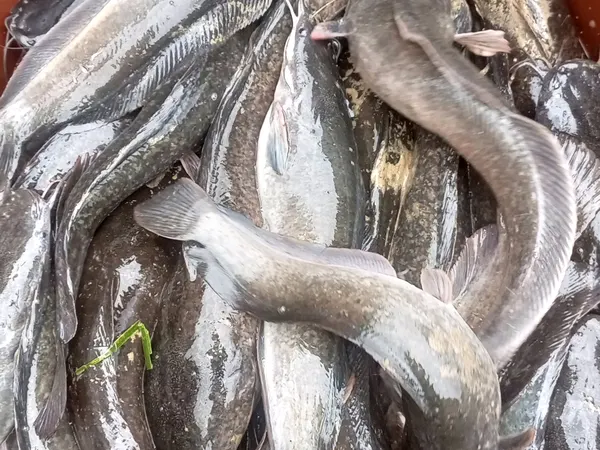
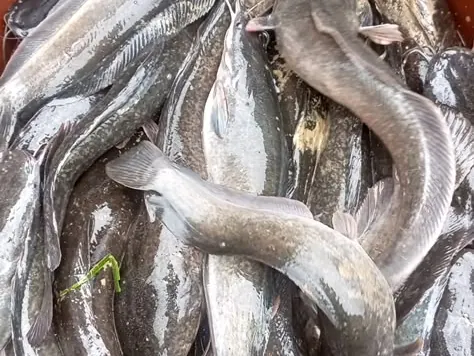
Vraies photos de la ferme (WebP optimisés) et allègement des pages

diff --git a/index.html b/index.html
@@ -371,55 +371,55 @@
                 <div id="top" class="design-hero-area p-relative fix white-bg">
                     <div class="content z-index-2 d-none d-md-block">
                         <div class="content__img">
-                            <div class="content__img-inner" style="background-image:url(assetsahello/accueil/1.png)"></div>
+                            <div class="content__img-inner" style="background-image:url(assetsahello/photos/trail-01.webp)"></div>
                         </div>
                         <div class="content__img">
-                            <div class="content__img-inner" style="background-image:url(assetsahello/accueil/2.png)"></div>
+                            <div class="content__img-inner" style="background-image:url(assetsahello/photos/trail-02.webp)"></div>
                         </div>
                         <div class="content__img">
-                            <div class="content__img-inner" style="background-image:url(assetsahello/accueil/3.png)"></div>
+                            <div class="content__img-inner" style="background-image:url(assetsahello/photos/trail-03.webp)"></div>
                         </div>
                         <div class="content__img">
-                            <div class="content__img-inner" style="background-image:url(assetsahello/accueil/4.png)"></div>
+                            <div class="content__img-inner" style="background-image:url(assetsahello/photos/trail-04.webp)"></div>
                         </div>
                         <div class="content__img">
-                            <div class="content__img-inner" style="background-image:url(assetsahello/accueil/5.png)"></div>
+                            <div class="content__img-inner" style="background-image:url(assetsahello/photos/trail-05.webp)"></div>
                         </div>
                         <div class="content__img">
-                            <div class="content__img-inner" style="background-image:url(assetsahello/accueil/6.png)"></div>
+                            <div class="content__img-inner" style="background-image:url(assetsahello/photos/trail-06.webp)"></div>
                         </div>
                         <div class="content__img">
-                            <div class="content__img-inner" style="background-image:url(assetsahello/accueil/7.png)"></div>
+                            <div class="content__img-inner" style="background-image:url(assetsahello/photos/trail-07.webp)"></div>
                         </div>
                         <div class="content__img">
-                            <div class="content__img-inner" style="background-image:url(assetsahello/accueil/8.png)"></div>
+                            <div class="content__img-inner" style="background-image:url(assetsahello/photos/trail-08.webp)"></div>
                         </div>
                         <div class="content__img">
-                            <div class="content__img-inner" style="background-image:url(assetsahello/accueil/9.png)"></div>
+                            <div class="content__img-inner" style="background-image:url(assetsahello/photos/trail-09.webp)"></div>
                         </div>
                         <div class="content__img">
-                            <div class="content__img-inner" style="background-image:url(assetsahello/accueil/10.png)"></div>
+                            <div class="content__img-inner" style="background-image:url(assetsahello/photos/trail-10.webp)"></div>
                         </div>
                         <div class="content__img">
-                            <div class="content__img-inner" style="background-image:url(assetsahello/accueil/11.png)"></div>
+                            <div class="content__img-inner" style="background-image:url(assetsahello/photos/trail-11.webp)"></div>
                         </div>
                         <div class="content__img">
-                            <div class="content__img-inner" style="background-image:url(assetsahello/accueil/12.png)"></div>
+                            <div class="content__img-inner" style="background-image:url(assetsahello/photos/trail-12.webp)"></div>
                         </div>
                         <div class="content__img">
-                            <div class="content__img-inner" style="background-image:url(assetsahello/accueil/13.png)"></div>
+                            <div class="content__img-inner" style="background-image:url(assetsahello/photos/trail-13.webp)"></div>
                         </div>
                         <div class="content__img">
-                            <div class="content__img-inner" style="background-image:url(assetsahello/accueil/14.png)"></div>
+                            <div class="content__img-inner" style="background-image:url(assetsahello/photos/trail-14.webp)"></div>
                         </div>
                         <div class="content__img">
-                            <div class="content__img-inner" style="background-image:url(assetsahello/accueil/15.png)"></div>
+                            <div class="content__img-inner" style="background-image:url(assetsahello/photos/trail-15.webp)"></div>
                         </div>
                         <div class="content__img">
-                            <div class="content__img-inner" style="background-image:url(assetsahello/accueil/16.png)"></div>
+                            <div class="content__img-inner" style="background-image:url(assetsahello/photos/trail-16.webp)"></div>
                         </div>
                         <div class="content__img">
-                            <div class="content__img-inner" style="background-image:url(assetsahello/accueil/17.png)"></div>
+                            <div class="content__img-inner" style="background-image:url(assetsahello/photos/trail-17.webp)"></div>
                         </div>
                     </div>
                     <div class="design-hero-circle-wrap">
@@ -496,7 +496,7 @@
                 <!-- banner area start -->
                 <div class="design-video-area">
                     <div class="design-video-thumb">
-                        <img class="w-100" data-speed=".7" src="assetsahello/accueil/banner2.png" alt="SA'HELLO - Agriculture Mali">
+                        <img class="w-100" data-speed=".7" src="assetsahello/photos/accueil-ferme.webp" alt="La ferme SA'HELLO à Dio Ba vue du ciel" width="1920" height="1047">
                     </div>
                 </div>
                 <!-- banner area end -->
@@ -538,7 +538,7 @@
                                     </div>
                                     <div class="col-xl-7 order-xl-1 order-0">
                                         <div class="design-project-thumb item-1 text-end">
-                                            <img src="assetsahello/accueil/16.png" alt="Agriculture SA'HELLO">
+                                            <img src="assetsahello/photos/agriculture.webp" alt="Cultures de la ferme SA'HELLO" width="1400" height="764" loading="lazy">
                                         </div>
                                     </div>
                                 </div>
@@ -547,7 +547,7 @@
                                 <div class="row align-items-center">
                                     <div class="col-xl-7">
                                         <div class="design-project-thumb item-2">
-                                            <img src="assetsahello/accueil/pisc1.png" alt="Pisciculture SA'HELLO">
+                                            <img src="assetsahello/photos/pisciculture.webp" alt="Bassin piscicole SA'HELLO" width="1400" height="764" loading="lazy">
                                         </div>
                                     </div>
                                     <div class="col-xl-5">
@@ -570,7 +570,7 @@
                                     </div>
                                     <div class="col-xl-7 order-xl-1 order-0">
                                         <div class="design-project-thumb item-1 text-end">
-                                            <img src="assetsahello/accueil/avi3.png" alt="Élevage SA'HELLO">
+                                            <img src="assetsahello/photos/elevage.webp" alt="Poussins de l'élevage SA'HELLO" width="1400" height="764" loading="lazy">
                                         </div>
                                     </div>
                                 </div>
@@ -585,22 +585,22 @@
                     <div class="container-fluid p-0">
                         <div class="tp-video-thumb-wrap">
                             <div class="tp-video-thumb d-none d-xl-block">
-                                <img src="assetsahello/accueil/19.png" alt="SA'HELLO">
+                                <img src="assetsahello/photos/mosaique-1.webp" alt="Bissap de la ferme" width="1000" height="545" loading="lazy">
                             </div>
                             <div class="tp-video-thumb mb-25">
-                                <img src="assetsahello/accueil/banner3.png" alt="Banner">
+                                <img src="assetsahello/photos/mosaique-2.webp" alt="L'équipe SA'HELLO" width="1000" height="545" loading="lazy">
                             </div>
                             <div class="tp-video-thumb d-none d-xl-block mb-25">
-                                <img src="assetsahello/accueil/avi4.png" alt="SA'HELLO">
+                                <img src="assetsahello/photos/mosaique-3.webp" alt="Poules et poussins" width="1000" height="545" loading="lazy">
                             </div>
                             <div class="tp-video-thumb d-none d-xl-block mb-25">
-                                <img src="assetsahello/accueil/beur3.png" alt="SA'HELLO">
+                                <img src="assetsahello/photos/mosaique-4.webp" alt="Papayes de la ferme" width="1000" height="545" loading="lazy">
                             </div>
                             <div class="tp-video-thumb d-none d-xl-block">
-                                <img src="assetsahello/accueil/33.png" alt="SA'HELLO">
+                                <img src="assetsahello/photos/mosaique-5.webp" alt="Bananes de la ferme" width="1000" height="545" loading="lazy">
                             </div>
                             <div class="tp-video-thumb d-none d-xl-block">
-                                <img src="assetsahello/accueil/pisc1.png" alt="SA'HELLO">
+                                <img src="assetsahello/photos/mosaique-6.webp" alt="Bassin piscicole" width="1000" height="545" loading="lazy">
                             </div>
                         </div>
                     </div>
@@ -620,7 +620,7 @@
 
                         <div class="sh-about-body">
                             <div class="sh-about-photo">
-                                <img src="assetsahello/accueil/banner4.png" alt="Femmes au travail dans les champs de SA'HELLO" loading="lazy">
+                                <img src="assetsahello/photos/femmes.webp" alt="Réunion avec les femmes partenaires de SA'HELLO" width="1200" height="655" loading="lazy">
                                 <div class="sh-about-badge"><strong>Dio Ba, Mali</strong>Agriculture locale &amp; écologique</div>
                             </div>
                             <div class="sh-about-text">
@@ -733,7 +733,7 @@
                                                 <button class="accordion-buttons" type="button" data-bs-toggle="collapse" data-bs-target="#collapseOne" aria-expanded="true" aria-controls="collapseOne">
                                                     <span>[ 01 ]</span>
                                                     <i>Maraîchage</i>
-                                                    <img class="design-service-img d-none d-md-block" src="assetsahello/accueil/16.png" alt="Maraîchage SA'HELLO">
+                                                    <img class="design-service-img d-none d-md-block" src="assetsahello/photos/service-agriculture.webp" loading="lazy" alt="Maraîchage SA'HELLO">
                                                 </button>
                                             </h2>
                                             <div id="collapseOne" class="accordion-collapse collapse show" data-bs-parent="#accordionExample">
@@ -754,7 +754,7 @@
                                                 <button class="accordion-buttons collapsed" type="button" data-bs-toggle="collapse" data-bs-target="#collapseTwo" aria-expanded="false" aria-controls="collapseTwo">
                                                     <span>[ 02 ]</span>
                                                     <i>Pisciculture</i>
-                                                    <img class="design-service-img d-none d-md-block" src="assetsahello/accueil/pisc2.png" alt="Pisciculture SA'HELLO">
+                                                    <img class="design-service-img d-none d-md-block" src="assetsahello/photos/service-pisciculture.webp" loading="lazy" alt="Pisciculture SA'HELLO">
                                                 </button>
                                             </h2>
                                             <div id="collapseTwo" class="accordion-collapse collapse" data-bs-parent="#accordionExample">
@@ -773,7 +773,7 @@
                                                 <button class="accordion-buttons collapsed" type="button" data-bs-toggle="collapse" data-bs-target="#collapseThree" aria-expanded="false" aria-controls="collapseThree">
                                                     <span>[ 03 ]</span>
                                                     <i>Aviculture</i>
-                                                    <img class="design-service-img d-none d-md-block" src="assetsahello/accueil/avi4.png" alt="Aviculture SA'HELLO">
+                                                    <img class="design-service-img d-none d-md-block" src="assetsahello/photos/service-elevage.webp" loading="lazy" alt="Aviculture SA'HELLO">
                                                 </button>
                                             </h2>
                                             <div id="collapseThree" class="accordion-collapse collapse" data-bs-parent="#accordionExample">
@@ -792,7 +792,7 @@
                                                 <button class="accordion-buttons collapsed" type="button" data-bs-toggle="collapse" data-bs-target="#collapseFour" aria-expanded="false" aria-controls="collapseFour">
                                                     <span>[ 04 ]</span>
                                                     <i>Transformation</i>
-                                                    <img class="design-service-img d-none d-md-block" src="assetsahello/accueil/beur3.png" alt="Transformation SA'HELLO">
+                                                    <img class="design-service-img d-none d-md-block" src="assetsahello/photos/service-transformation.webp" loading="lazy" alt="Transformation SA'HELLO">
                                                 </button>
                                             </h2>
                                             <div id="collapseFour" class="accordion-collapse collapse" data-bs-parent="#accordionExample">
@@ -917,10 +917,8 @@
     <script src="assets/js/bootstrap-bundle.js"></script>
     <script src="assets/js/swiper-bundle.js"></script>
     <script src="assets/js/plugin.js"></script>
-    <script src="assets/js/three.js"></script>
     <script src="assets/js/slick.js"></script>
     <script src="assets/js/scroll-magic.js"></script>
-    <script src="assets/js/hover-effect.umd.js"></script>
     <script src="assets/js/magnific-popup.js"></script>
     <script src="assets/js/parallax-slider.js"></script>
     <script src="assets/js/nice-select.js"></script>
@@ -930,7 +928,6 @@
     <script src="assets/js/ajax-form.js"></script>
     <script src="assets/js/Observer.min.js"></script>
     <script src="assets/js/splitting.min.js"></script>
-    <script src="assets/js/webgl.js"></script>
     <script src="assets/js/parallax-scroll.js"></script>
     <script src="assets/js/atropos.js"></script>
     <script src="assets/js/slider-active.js"></script>

diff --git a/produits.html b/produits.html
@@ -346,7 +346,7 @@
                                     <div class="tp-portfolio-masonry-grid-thumb tp--hover-item">
                                         <a href="commander.html#produits">
                                             <div class="tp--hover-img" data-displacement="assets/img/webgl/1.jpg" data-intensity="0.6" data-speedin="1" data-speedout="1">
-                                                <img src="assetsahello/accueil/16.png" alt="Maraîchage SA'HELLO">
+                                                <img src="assetsahello/photos/produit-maraichage.webp" alt="Gombos frais de SA'HELLO" width="810" height="771">
                                             </div>
                                         </a>
                                     </div>
@@ -369,7 +369,7 @@
                                     <div class="tp-portfolio-masonry-grid-thumb tp--hover-item">
                                         <a href="commander.html#produits">
                                             <div class=" tp--hover-img" data-displacement="assets/img/webgl/1.jpg" data-intensity="0.6" data-speedin="1" data-speedout="1">
-                                                <img src="assetsahello/accueil/pisc1.png" alt="Pisciculture SA'HELLO">
+                                                <img src="assetsahello/photos/produit-pisciculture.webp" alt="Pisciculture SA'HELLO" width="1000" height="952">
                                             </div>
                                         </a>
                                     </div>
@@ -390,7 +390,7 @@
                                     <div class="tp-portfolio-masonry-grid-thumb tp--hover-item">
                                         <a href="commander.html#produits">
                                             <div class=" tp--hover-img" data-displacement="assets/img/webgl/1.jpg" data-intensity="0.6" data-speedin="1" data-speedout="1">
-                                                <img src="assetsahello/accueil/avi3.png" alt="Aviculture SA'HELLO">
+                                                <img src="assetsahello/photos/produit-aviculture.webp" alt="Aviculture SA'HELLO" width="1000" height="952" loading="lazy">
                                             </div>
                                         </a>
                                     </div>
@@ -411,7 +411,7 @@
                                     <div class="tp-portfolio-masonry-grid-thumb tp--hover-item">
                                         <a href="commander.html#produits">
                                             <div class=" tp--hover-img" data-displacement="assets/img/webgl/1.jpg" data-intensity="0.6" data-speedin="1" data-speedout="1">
-                                                <img src="assetsahello/accueil/beur3.png" alt="Transformation SA'HELLO">
+                                                <img src="assetsahello/photos/karite.webp" alt="Transformation SA'HELLO" width="806" height="768" loading="lazy">
                                             </div>
                                         </a>
                                     </div>
@@ -432,7 +432,7 @@
                                     <div class="tp-portfolio-masonry-grid-thumb tp--hover-item">
                                         <a href="commander.html#produits">
                                             <div class=" tp--hover-img" data-displacement="assets/img/webgl/1.jpg" data-intensity="0.6" data-speedin="1" data-speedout="1">
-                                                <img src="assetsahello/accueil/beur3.png" alt="Apiculture SA'HELLO">
+                                                <img src="assetsahello/photos/karite.webp" alt="Apiculture SA'HELLO" width="806" height="768" loading="lazy">
                                             </div>
                                         </a>
                                     </div>
@@ -606,7 +606,6 @@
     <script src="assets/js/ajax-form.js"></script>
     <script src="assets/js/Observer.min.js"></script>
     <script src="assets/js/splitting.min.js"></script>
-    <script src="assets/js/webgl.js"></script>
     <script src="assets/js/parallax-scroll.js"></script>
     <script src="assets/js/atropos.js"></script>
     <script src="assets/js/slider-active.js"></script>

diff --git a/contact.html b/contact.html
@@ -288,7 +288,7 @@
                                     </span>
                                     <h3 class="pp-service-details-title">
                                         Contactez SA'HELLO <br>
-                                        <img src="assetsahello/accueil/banner1.png" alt="">Des produits frais à proximité !
+                                        <img src="assetsahello/photos/contact.webp" alt="">Des produits frais à proximité !
                                     </h3>
                                 </div>
                                 <div class="tp-contact-me-wrap">
@@ -455,10 +455,8 @@
     <script src="assets/js/bootstrap-bundle.js"></script>
     <script src="assets/js/swiper-bundle.js"></script>
     <script src="assets/js/plugin.js"></script>
-    <script src="assets/js/three.js"></script>
     <script src="assets/js/slick.js"></script>
     <script src="assets/js/scroll-magic.js"></script>
-    <script src="assets/js/hover-effect.umd.js"></script>
     <script src="assets/js/magnific-popup.js"></script>
     <script src="assets/js/parallax-slider.js"></script>
     <script src="assets/js/nice-select.js"></script>
@@ -506,7 +504,6 @@
     </script>
     <script src="assets/js/Observer.min.js"></script>
     <script src="assets/js/splitting.min.js"></script>
-    <script src="assets/js/webgl.js"></script>
     <script src="assets/js/parallax-scroll.js"></script>
     <script src="assets/js/atropos.js"></script>
     <script src="assets/js/slider-active.js"></script>

diff --git a/commander.html b/commander.html
@@ -438,10 +438,8 @@
     <script src="assets/js/bootstrap-bundle.js"></script>
     <script src="assets/js/swiper-bundle.js"></script>
     <script src="assets/js/plugin.js"></script>
-    <script src="assets/js/three.js"></script>
     <script src="assets/js/slick.js"></script>
     <script src="assets/js/scroll-magic.js"></script>
-    <script src="assets/js/hover-effect.umd.js"></script>
     <script src="assets/js/magnific-popup.js"></script>
     <script src="assets/js/parallax-slider.js"></script>
     <script src="assets/js/nice-select.js"></script>
@@ -451,7 +449,6 @@
     <script src="assets/js/ajax-form.js"></script>
     <script src="assets/js/Observer.min.js"></script>
     <script src="assets/js/splitting.min.js"></script>
-    <script src="assets/js/webgl.js"></script>
     <script src="assets/js/parallax-scroll.js"></script>
     <script src="assets/js/atropos.js"></script>
     <script src="assets/js/slider-active.js"></script>
